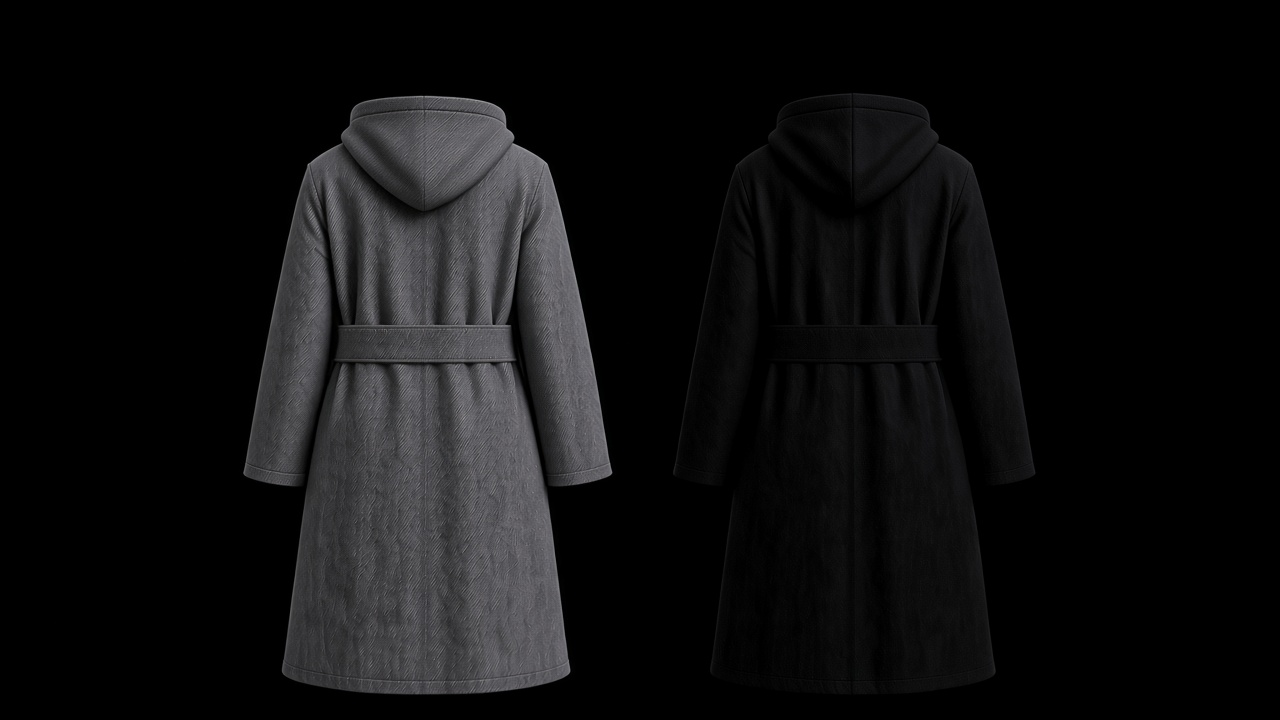
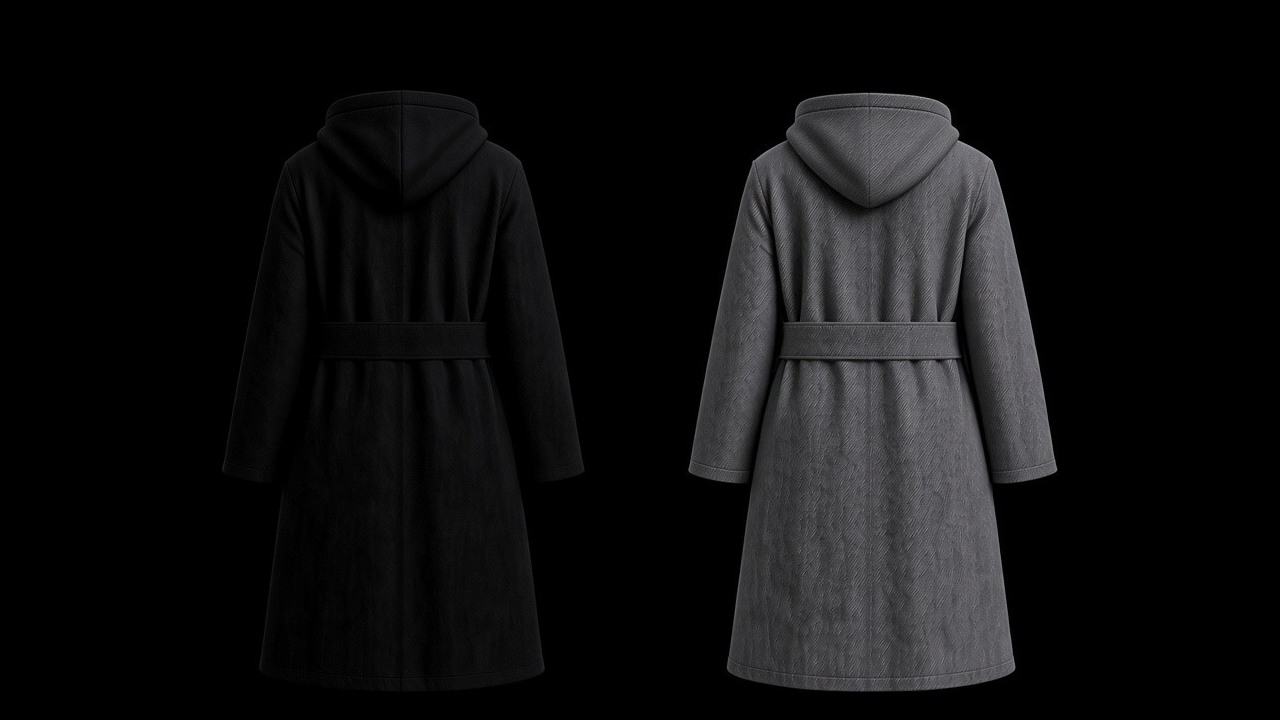
Add files via upload

diff --git a/brotherhoods-preview/index.html b/brotherhoods-preview/index.html
@@ -49,10 +49,10 @@
     </section>
 
     <figure class="plate">
-      <img src="images/backs-low-broad.jpg" alt="The same hooded coat from the back, in gray denim and in black. The hood sits lower, one piece, no center seam. Shoulders a little broader. One wide belt strip from hip to hip." />
+      <img src="images/backs-low-broad.jpg?v=close" alt="The same hooded coat from the back, in black and in gray denim. The hood sits lower, one piece, no center seam. Shoulders a little broader. One wide belt strip from hip to hip." />
       <figcaption>
-        <span>Gray denim</span>
         <span>Black Pima</span>
+        <span>Gray denim</span>
       </figcaption>
     </figure>
 
